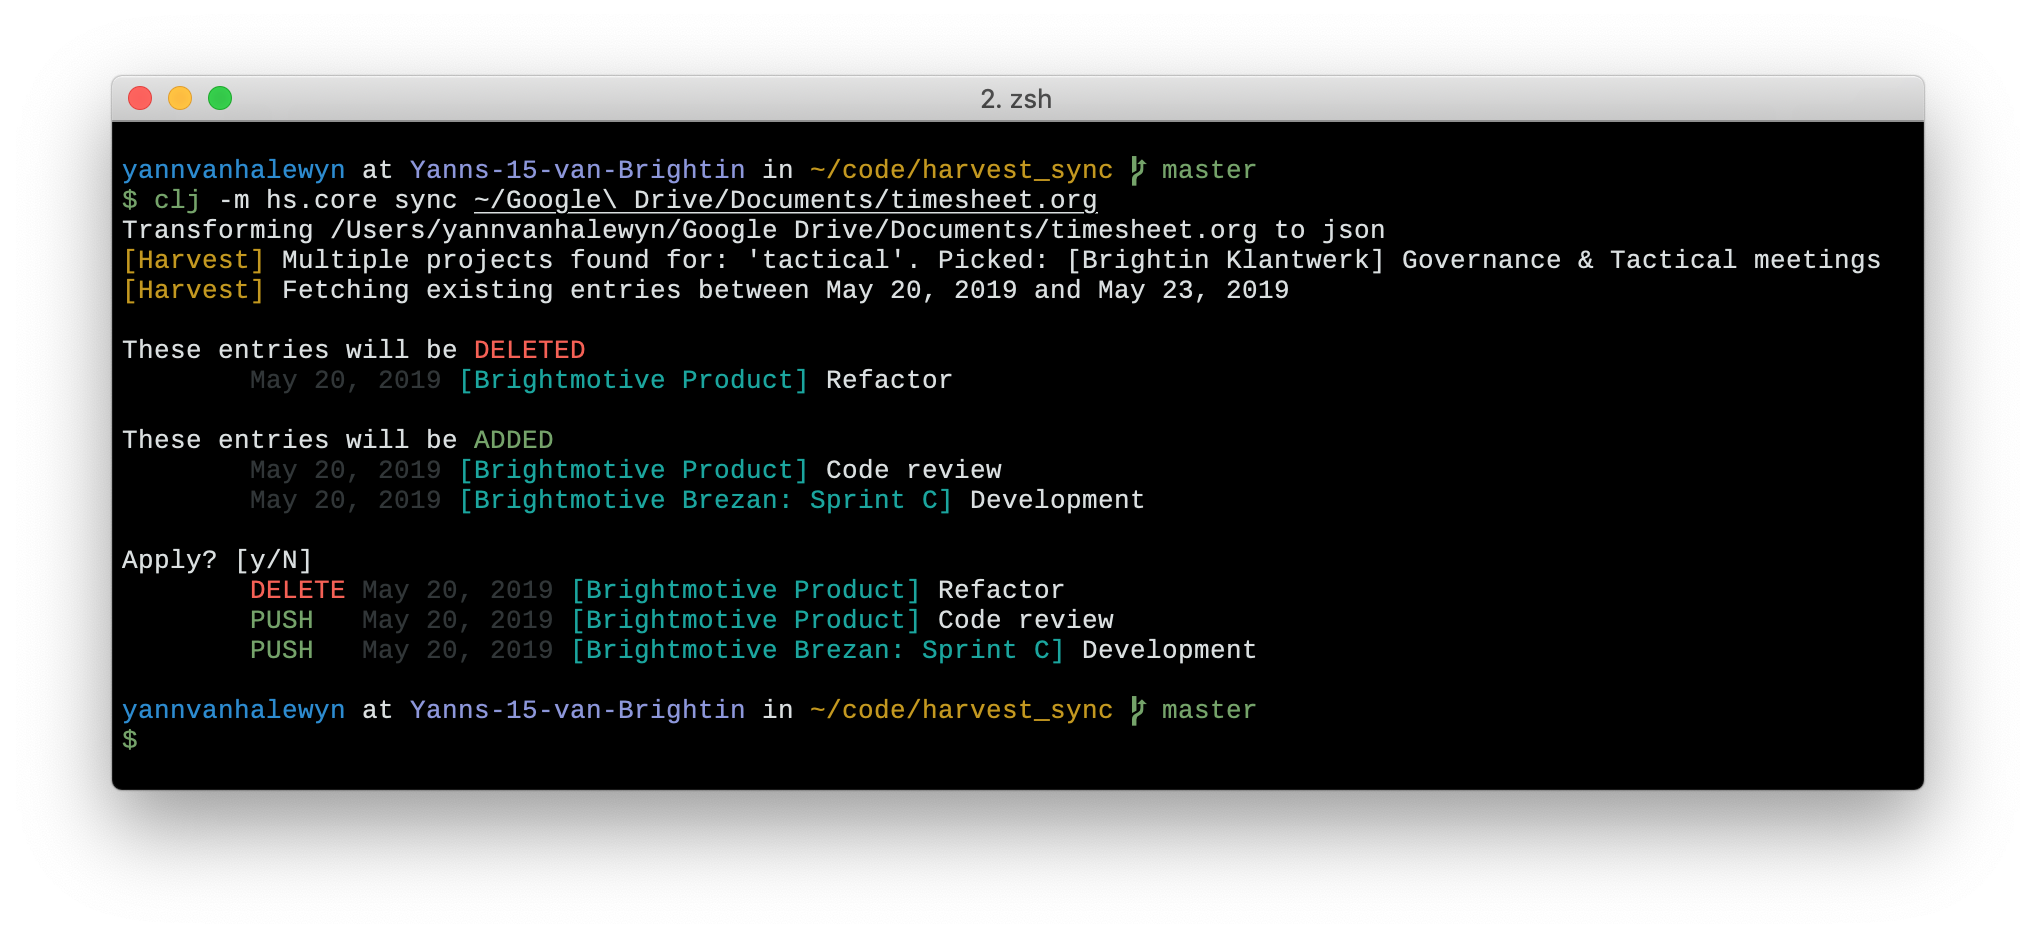
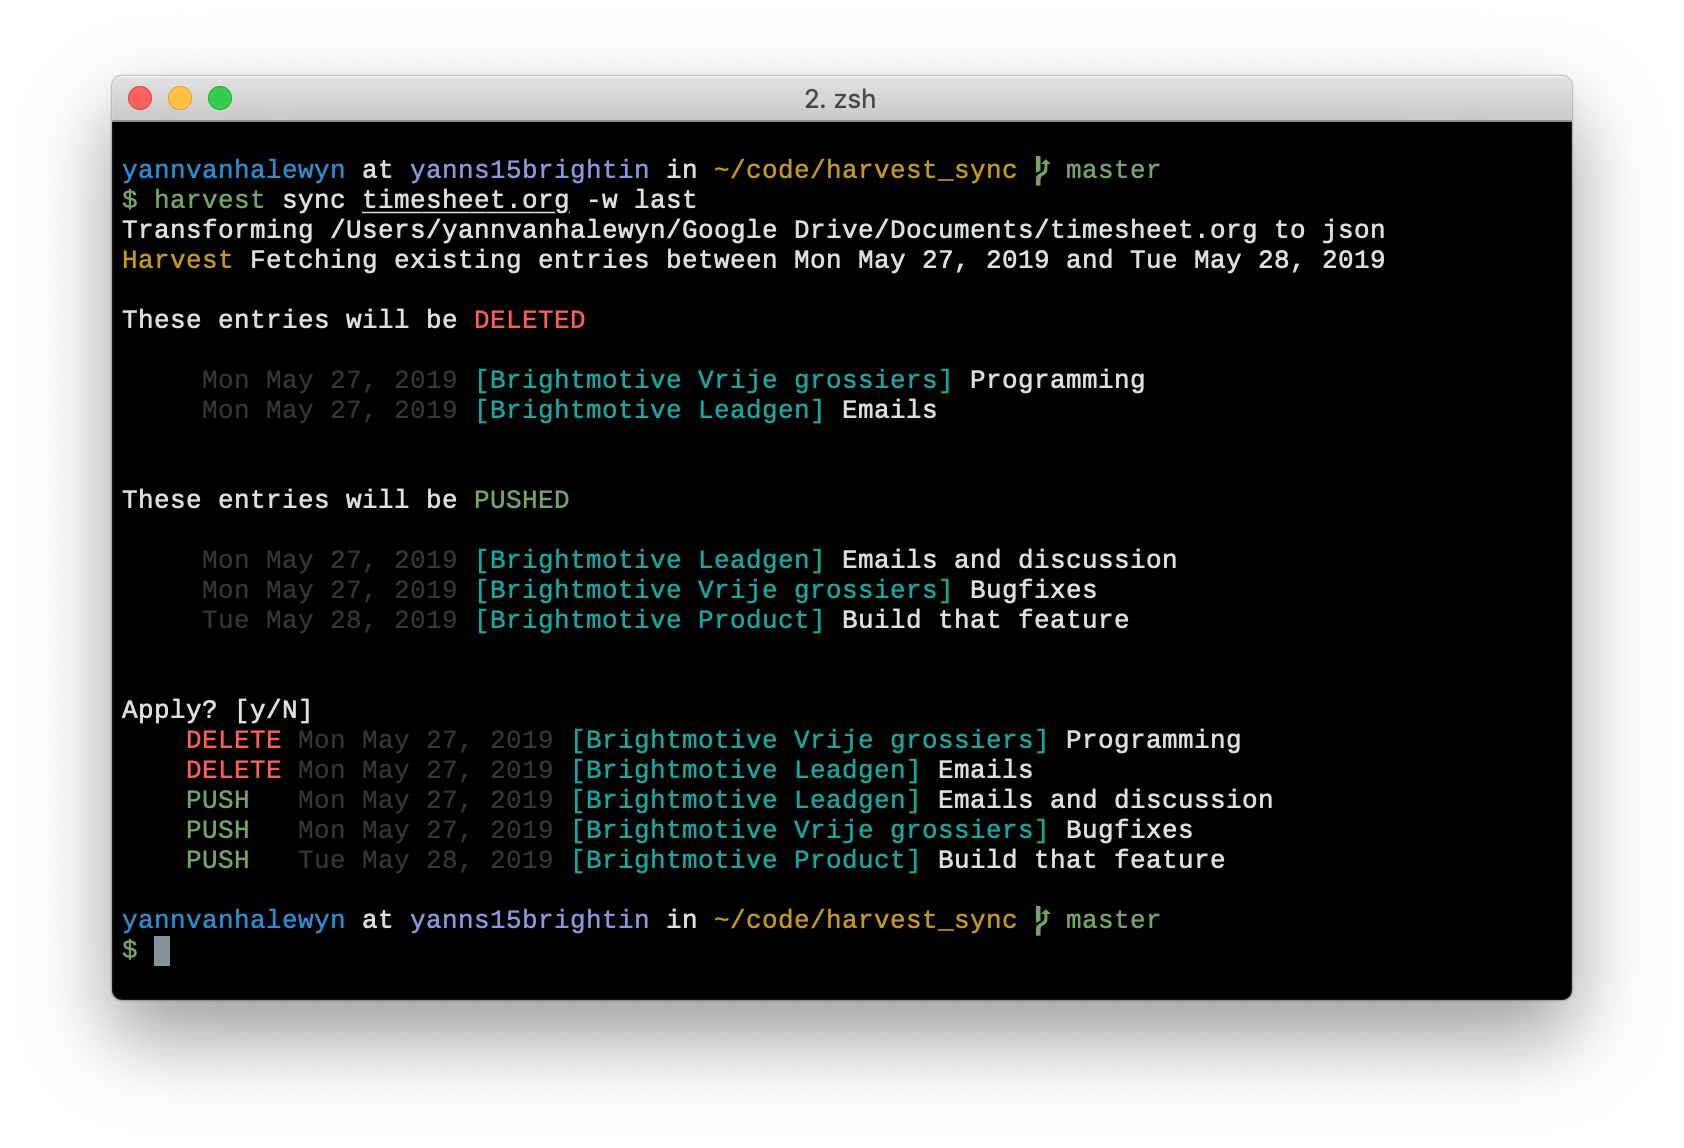
Update readme and screenshots

Changed region(s): [[0.0309, 0.0618, 0.9572, 0.8966]]

diff --git a/README.md b/README.md
@@ -11,13 +11,13 @@ A time sheet might look like this (how I do it, subject to my own personal prefe
 
 ![time sheet](/.github/timesheet.png)
 
-The file is separated into weeks, then into weekdays, then tasks. Each task uses Org tags to specify the project. Every tag will be concatenated with a regex wildcard (.*) in order to search through harvest client and projects to find the correct project.
+The file is separated into weeks, then weekdays, then tasks. Each task uses Org tags to specify the project. Use the *%* character to represent a wildcard when searching for a client/project.
 
 ## Usage
 
 Install the [clojure tools.deps](https://clojure.org/guides/getting_started) and have a recent version of emacs (> 24) on your PATH.
 
-In order to use this tool, run it with:
+In order to test this tool immediately, use:
 
 ``` shell
 export HARVEST_ACCESS_TOKEN=xxx
@@ -25,26 +25,23 @@ export HARVEST_ACCOUNT_ID=xxx
 clj -m hs.core sync <path/to/timesheet> --default-project clientname-projectname
 ```
 
-Or compile the uberjar and add a script to your path
+To use this actively, build an uberjar and create a wrapper script on your PATH
 
 ``` shell
 clj -A:uberjar
-# created target/harvest_sync-0.0.1-standalone.jar
-```
+cp target/harvest_sync-0.0.1-standalone.jar ~/bin/harvest_sync.jar
 
-And create a wrapper script on your PATH for easy access
-
-``` shell
+# file: ~/bin/harvest
 #!/bin/sh
 
-java -jar <path/to/built/uberjar> \
+java -jar ~/bin/harvest_sync.jar \
   --harvest-access-token <token> \
   --harvest-account-id <account-id> \
   --default-project my-default-project \
   "$@"
 ```
 
-And use it with these options
+These are the supported options:
 
 ``` shell
 Usage: harvest sync FILENAME <options>
